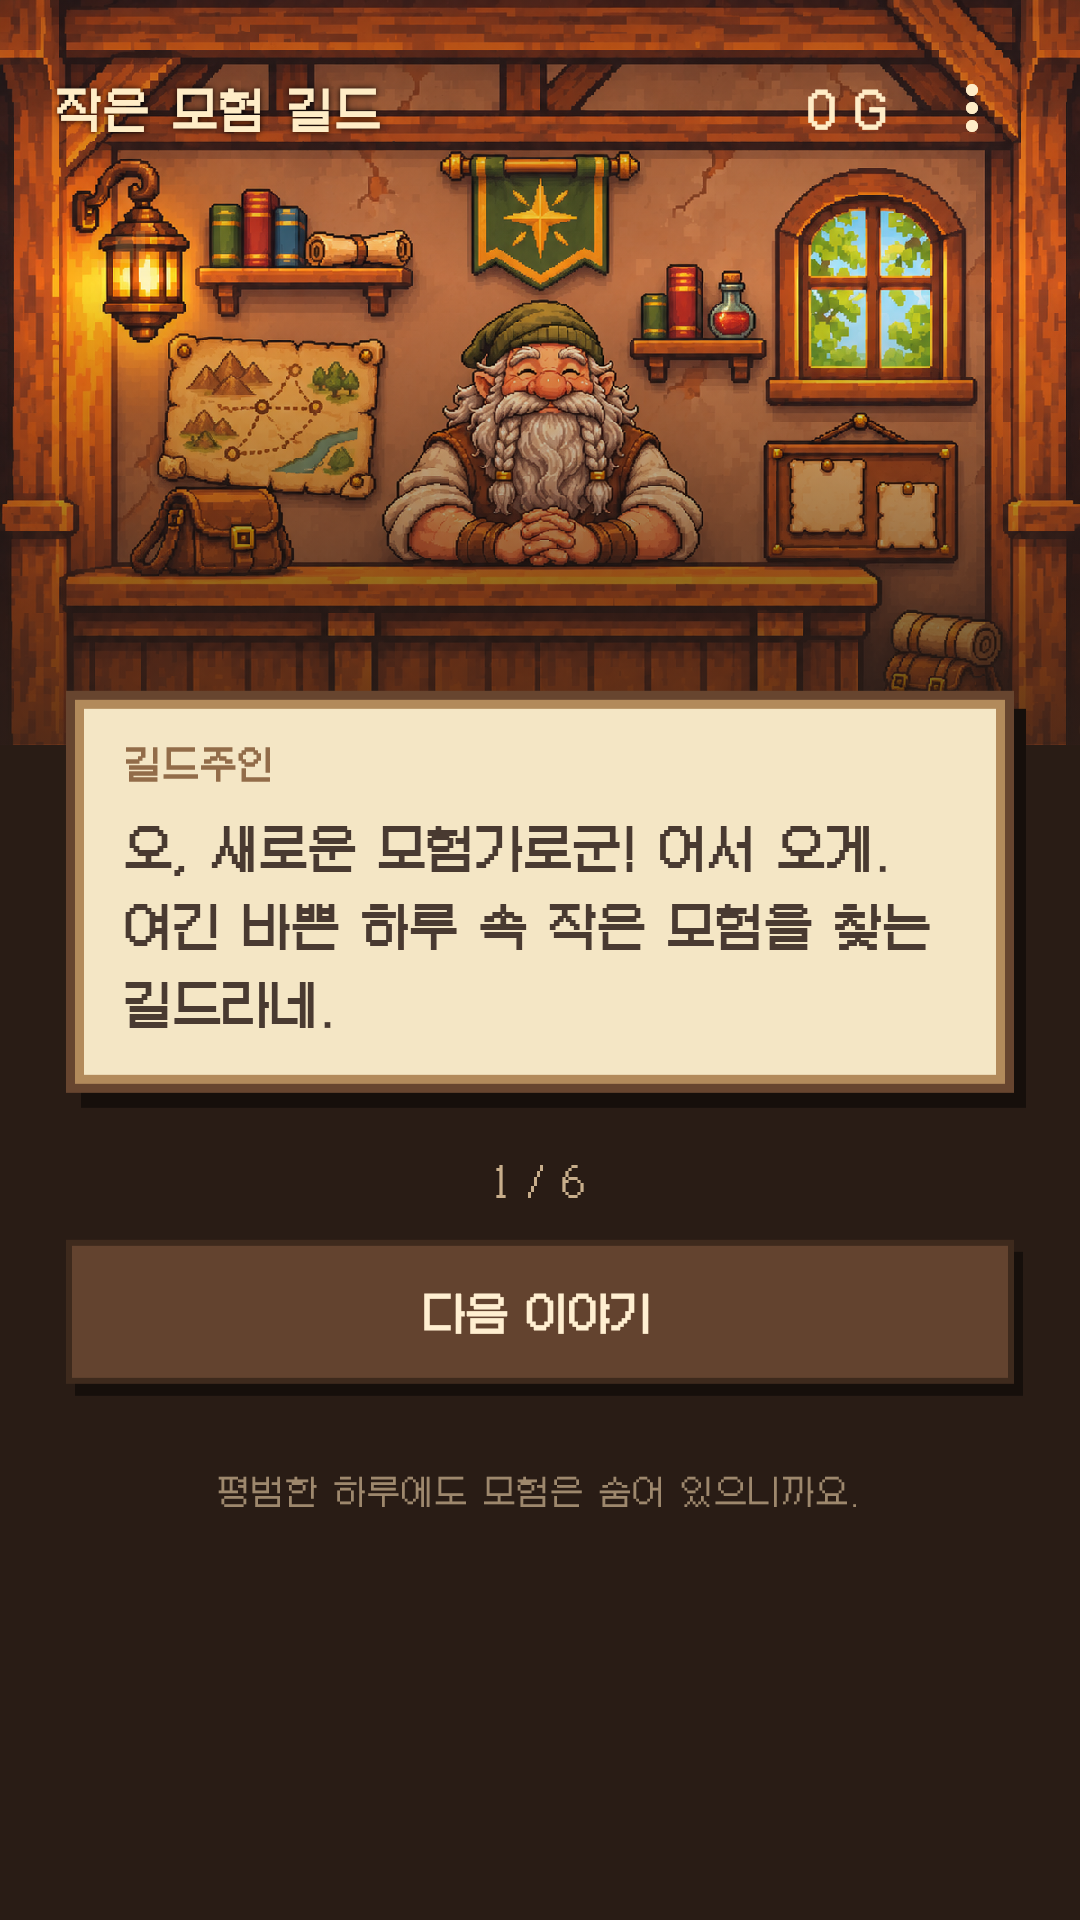
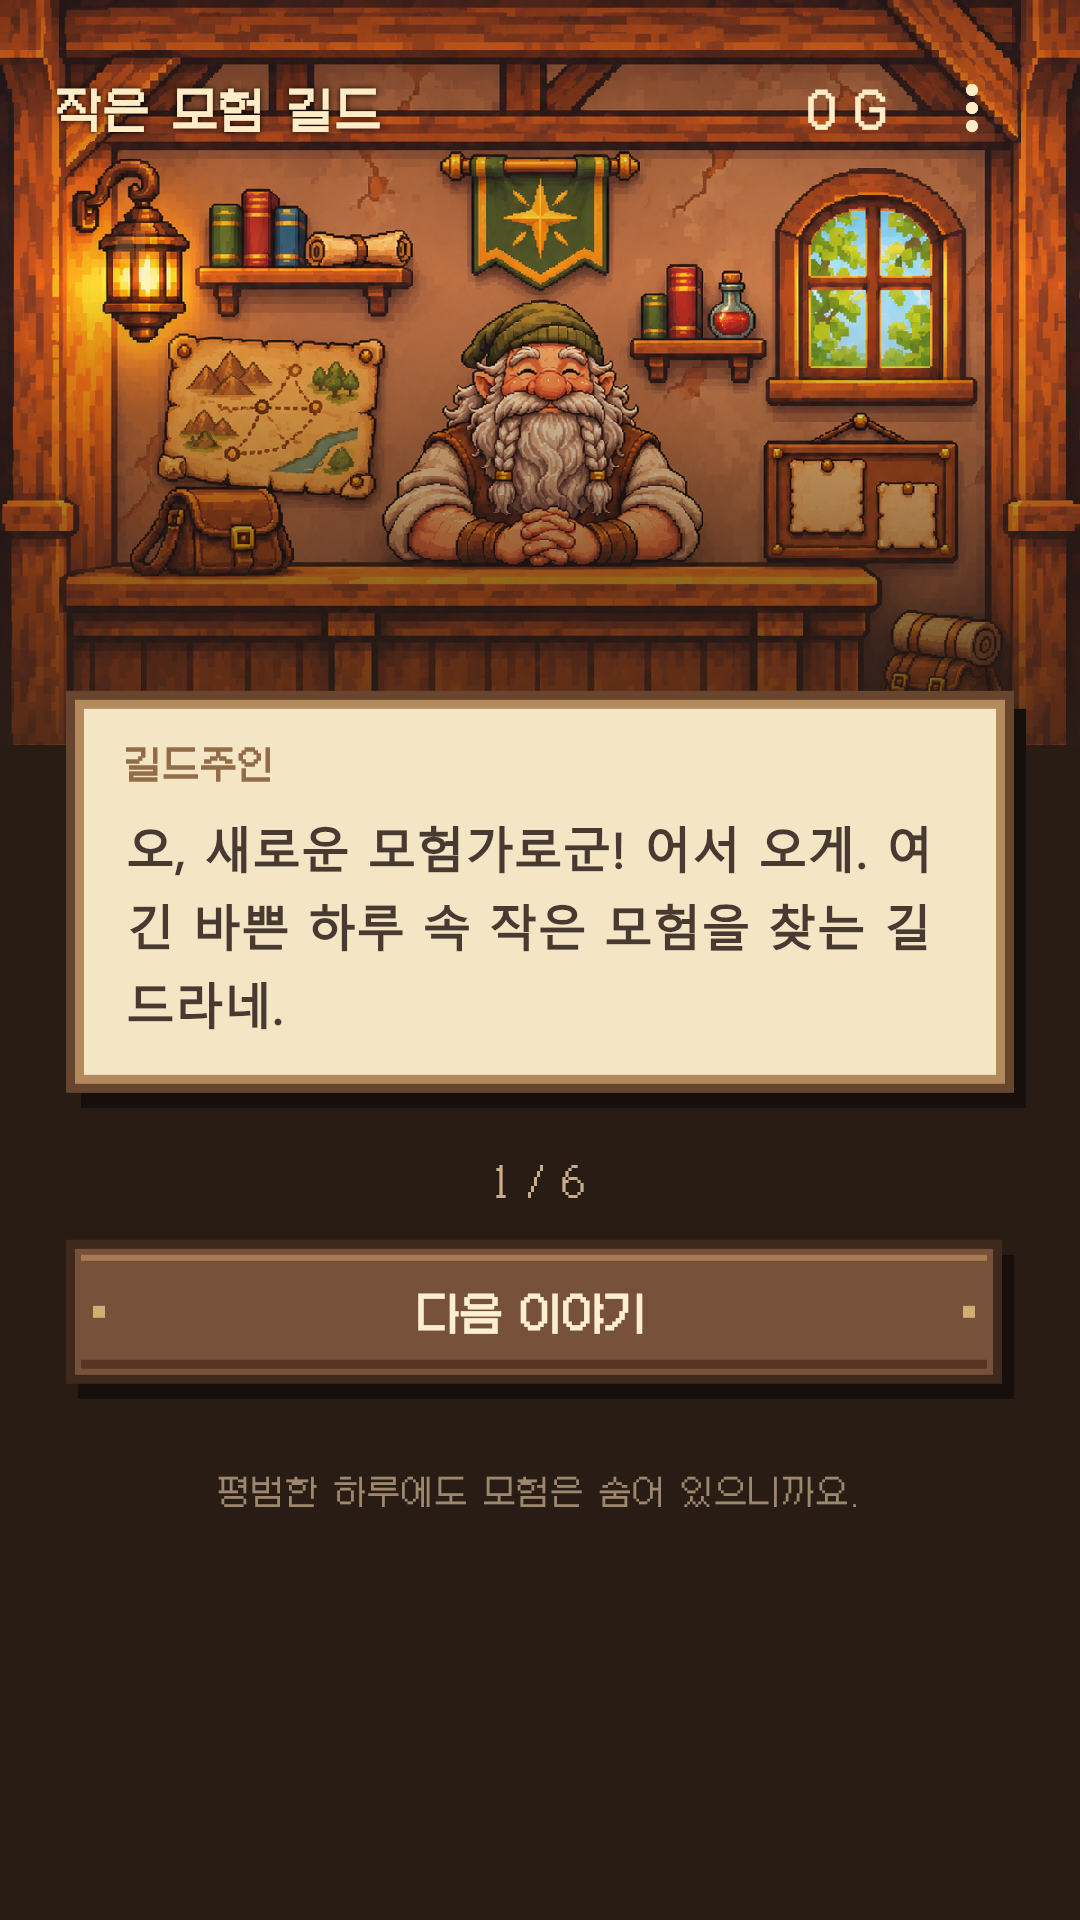
Refine guild parchment screen layout

Changed region(s): [[0.0917, 0.4062, 0.8556, 0.5625], [0.0611, 0.625, 0.9472, 0.7188]]

diff --git a/lib/main.dart b/lib/main.dart
@@ -475,6 +475,7 @@ class _GuildHomeState extends State<GuildHome> with WidgetsBindingObserver {
                                     : greeting,
                                 style: const TextStyle(
                                     color: ink,
+                                    fontFamily: 'sans-serif',
                                     fontSize: 16,
                                     fontWeight: FontWeight.w600,
                                     height: 1.6)),
@@ -515,26 +516,31 @@ class _GuildHomeState extends State<GuildHome> with WidgetsBindingObserver {
                                     color: Color(0xffdbc49d), fontSize: 13))),
                         const SizedBox(height: 8),
                         Center(
-                            child: Semantics(
-                                button: true,
-                                label: '양피지 열기',
-                                child: InkWell(
-                                    onTap: busy ? null : () => update('opened'),
-                                    child: const SizedBox(
-                                        width: 128,
-                                        height: 108,
-                                        child: CustomPaint(
-                                            painter: ScrollPainter()))))),
-                        Center(
-                            child: SizedBox(
-                                width: 180,
-                                child: GuildButton(
-                                    label: '양피지 열기',
-                                    onPressed:
-                                        busy ? null : () => update('opened')))),
-                        const SizedBox(height: 9),
+                            child: TextButton(
+                          onPressed: busy ? null : () => update('opened'),
+                          style: TextButton.styleFrom(
+                              foregroundColor: const Color(0xfff4ddaf),
+                              shape: const RoundedRectangleBorder(),
+                              padding: const EdgeInsets.symmetric(
+                                  horizontal: 24, vertical: 4)),
+                          child: const Column(
+                              mainAxisSize: MainAxisSize.min,
+                              children: [
+                                SizedBox(
+                                    width: 174,
+                                    height: 142,
+                                    child:
+                                        CustomPaint(painter: ScrollPainter())),
+                                SizedBox(height: 4),
+                                Text('양피지 열기',
+                                    style: TextStyle(
+                                        fontSize: 15,
+                                        fontWeight: FontWeight.w700)),
+                              ]),
+                        )),
+                        const SizedBox(height: 4),
                         const Center(
-                            child: Text('천천히 열어 보세요',
+                            child: Text('봉인을 눌러 의뢰를 확인하세요',
                                 style: TextStyle(
                                     color: Color(0xffaa9275), fontSize: 12))),
                       ] else
@@ -563,6 +569,7 @@ class _GuildHomeState extends State<GuildHome> with WidgetsBindingObserver {
                                     textAlign: TextAlign.center,
                                     style: const TextStyle(
                                         color: Color(0xff70533a),
+                                        fontFamily: 'sans-serif',
                                         fontSize: 15,
                                         height: 1.7)),
                                 const SizedBox(height: 22),
@@ -750,6 +757,12 @@ class PixelPanelPainter extends CustomPainter {
     rect(6, 6, w - 6, h - 6, const Color(0xfff4e6c5));
     if (parchment) {
       rect(9, 9, w - 9, h - 9, const Color(0xfff8edcf));
+      final grain = Paint()..color = const Color(0x18a88354);
+      for (var y = 22.0; y < h - 16; y += 28) {
+        canvas.drawRect(Rect.fromLTWH(12, y, 5, 1.5), grain);
+        canvas.drawRect(Rect.fromLTWH(w - 20, y + 9, 6, 1.5), grain);
+      }
+      rect(w / 2 - 12, 12, w / 2 + 12, 14, const Color(0xff87916b));
       rect(10, 11, 24, 14, const Color(0xffd2b588));
       rect(w - 24, 11, w - 10, 14, const Color(0xffd2b588));
       rect(10, h - 14, 24, h - 11, const Color(0xffd2b588));
@@ -768,29 +781,49 @@ class GuildButton extends StatelessWidget {
   const GuildButton({super.key, required this.label, required this.onPressed});
   @override
   Widget build(BuildContext context) => Padding(
-      padding: const EdgeInsets.only(bottom: 4),
-      child: DecoratedBox(
-        decoration: BoxDecoration(
-            color: onPressed == null
-                ? const Color(0xffbaa47f)
-                : const Color(0xff63432f),
-            border: Border.all(color: const Color(0xff3e2a1d), width: 2),
-            boxShadow: const [
-              BoxShadow(color: Color(0xff160f0b), offset: Offset(3, 4))
-            ]),
-        child: TextButton(
+        padding: const EdgeInsets.only(bottom: 4, right: 4),
+        child: CustomPaint(
+          painter: WoodButtonPainter(enabled: onPressed != null),
+          child: TextButton(
             onPressed: onPressed,
             style: TextButton.styleFrom(
                 foregroundColor: const Color(0xffffefd1),
                 disabledForegroundColor: const Color(0xffe6dbc5),
                 shape: const RoundedRectangleBorder(),
                 padding:
-                    const EdgeInsets.symmetric(horizontal: 14, vertical: 13)),
+                    const EdgeInsets.symmetric(horizontal: 24, vertical: 14)),
             child: Text(label,
                 textAlign: TextAlign.center,
-                style: const TextStyle(
-                    fontSize: 14, fontWeight: FontWeight.w700))),
-      ));
+                style:
+                    const TextStyle(fontSize: 14, fontWeight: FontWeight.w700)),
+          ),
+        ),
+      );
+}
+
+class WoodButtonPainter extends CustomPainter {
+  final bool enabled;
+  const WoodButtonPainter({required this.enabled});
+  @override
+  void paint(Canvas canvas, Size size) {
+    final w = size.width, h = size.height;
+    void rect(double l, double t, double r, double b, Color color) =>
+        canvas.drawRect(Rect.fromLTRB(l, t, r, b), Paint()..color = color);
+    rect(4, 5, w + 4, h + 5, const Color(0xff160f0b));
+    rect(0, 0, w, h, const Color(0xff3e291c));
+    rect(3, 3, w - 3, h - 3,
+        enabled ? const Color(0xff775139) : const Color(0xffa99475));
+    rect(5, 5, w - 5, 7,
+        enabled ? const Color(0xffa97b50) : const Color(0xffc4b295));
+    rect(5, h - 8, w - 5, h - 5,
+        enabled ? const Color(0xff563623) : const Color(0xff8e7b62));
+    rect(9, h / 2 - 2, 13, h / 2 + 2, const Color(0xffd4ad72));
+    rect(w - 13, h / 2 - 2, w - 9, h / 2 + 2, const Color(0xffd4ad72));
+  }
+
+  @override
+  bool shouldRepaint(covariant WoodButtonPainter oldDelegate) =>
+      enabled != oldDelegate.enabled;
 }
 
 class ScrollPainter extends CustomPainter {
@@ -809,24 +842,20 @@ class ScrollPainter extends CustomPainter {
         paper = Color(0xffefdbb2),
         light = Color(0xffffeac1),
         seal = Color(0xffa84e37);
-    box(5, 5, 23, 19, shadow);
-    box(4, 3, 23, 19, edge);
-    box(6, 4, 19, 17, mid);
-    box(7, 5, 17, 15, paper);
-    box(8, 6, 15, 1, light);
-    box(3, 2, 4, 5, edge);
-    box(4, 3, 2, 3, wood);
-    box(24, 18, 5, 5, edge);
-    box(25, 19, 2, 3, wood);
-    box(9, 8, 12, 1, mid);
-    box(9, 10, 10, 1, mid);
-    box(9, 12, 11, 1, mid);
-    box(9, 14, 7, 1, mid);
-    box(20, 15, 3, 3, edge);
-    box(20, 15, 2, 2, seal);
-    box(20, 15, 1, 1, const Color(0xffdb8060));
-    box(8, 18, 4, 1, light);
-    box(16, 6, 3, 1, light);
+    box(5, 8, 23, 14, shadow);
+    box(4, 6, 23, 14, edge);
+    box(6, 7, 19, 12, mid);
+    box(7, 8, 17, 10, paper);
+    box(8, 9, 15, 1, light);
+    box(3, 4, 4, 18, edge);
+    box(4, 5, 2, 16, wood);
+    box(24, 4, 4, 18, edge);
+    box(25, 5, 2, 16, wood);
+    box(13, 7, 5, 12, edge);
+    box(14, 7, 3, 12, const Color(0xff8d9b6b));
+    box(12, 11, 7, 6, edge);
+    box(13, 12, 5, 4, seal);
+    box(14, 12, 2, 1, const Color(0xffdf8760));
   }
 
   @override
